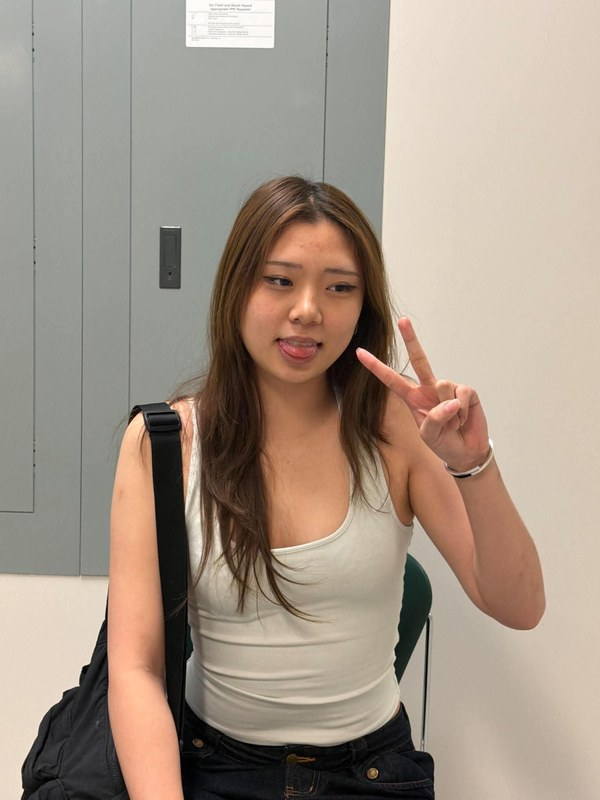
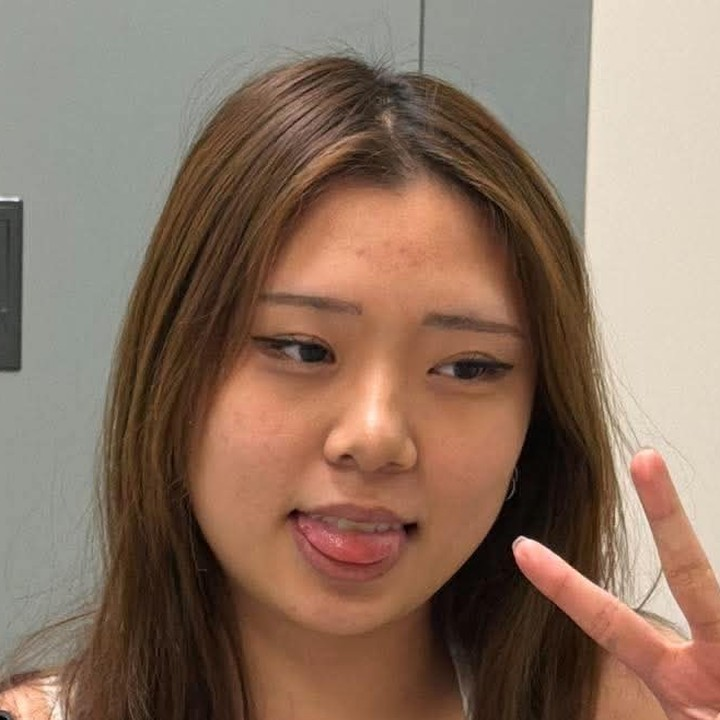
Show face-zoomed circular flashcards for recognition practice.

diff --git a/index.html b/index.html
@@ -194,8 +194,8 @@
       width: 100%;
       aspect-ratio: 1;
       object-fit: cover;
-      object-position: center top;
-      border-radius: 12px;
+      object-position: center center;
+      border-radius: 50%;
       display: block;
       background: var(--surface);
     }
@@ -246,11 +246,17 @@
       perspective: 1200px;
       min-height: 0;
       position: relative;
+      display: flex;
+      align-items: center;
+      justify-content: center;
     }
 
     .card {
-      width: 100%;
-      height: 100%;
+      width: min(100%, calc(100vh - 280px));
+      max-width: 100%;
+      aspect-ratio: 1;
+      height: auto;
+      max-height: 100%;
       position: relative;
       transform-style: preserve-3d;
       transition: transform 0.45s cubic-bezier(0.2, 0.8, 0.2, 1);
@@ -264,7 +270,7 @@
       inset: 0;
       backface-visibility: hidden;
       -webkit-backface-visibility: hidden;
-      border-radius: var(--radius);
+      border-radius: 50%;
       overflow: hidden;
       background: var(--surface);
       display: flex;
@@ -274,36 +280,42 @@
       box-shadow: 0 12px 40px rgba(0, 0, 0, 0.35);
     }
 
+    .face.front {
+      border: 3px solid var(--surface-2);
+    }
+
     .face.back {
       transform: rotateY(180deg);
       background: linear-gradient(160deg, #1e2a38 0%, #15202b 100%);
       padding: 24px;
       text-align: center;
+      border: 3px solid var(--accent-dim);
     }
 
     .face img {
       width: 100%;
       height: 100%;
       object-fit: cover;
-      object-position: center top;
+      object-position: center center;
       display: block;
     }
 
     .hint {
       position: absolute;
-      bottom: 14px;
+      bottom: 12%;
       left: 50%;
       transform: translateX(-50%);
       background: rgba(15, 20, 25, 0.72);
       backdrop-filter: blur(8px);
       color: var(--text);
-      font-size: 0.8rem;
+      font-size: 0.75rem;
       font-weight: 500;
-      padding: 8px 14px;
+      padding: 7px 12px;
       border-radius: 999px;
       pointer-events: none;
       opacity: 0.95;
       transition: opacity 0.2s;
+      white-space: nowrap;
     }
 
     .card.flipped .hint { opacity: 0; }
@@ -498,8 +510,8 @@
       { name: "Katherine Li", file: "katherine-li.jpg", dept: "Events" },
       { name: "Justin Xie", file: "justin-xie.jpg", dept: "Events" },
       { name: "Fred Fang", file: "fred-fang.jpg", dept: "Events" },
-      { name: "Emily Kam", file: "emily-kam.png", dept: "Events" },
-      { name: "Casper Chen", file: "casper-chen.png", dept: "Graphics" },
+      { name: "Emily Kam", file: "emily-kam.jpg", dept: "Events" },
+      { name: "Casper Chen", file: "casper-chen.jpg", dept: "Graphics" },
       { name: "Ethan Wen-Je Lee", file: "ethan-wen-je-lee.jpg", dept: "Graphics" },
       { name: "Xavier Zou", file: "xavier-zou.jpg", dept: "Graphics" },
       { name: "Christine Liang", file: "christine-liang.jpg", dept: "Graphics" },
@@ -509,7 +521,7 @@
       { name: "Megan Chui", file: "megan-chui.jpg", dept: "Marketing" },
       { name: "Andy Chen", file: "andy-chen.jpg", dept: "Marketing" },
       { name: "Clare Zhang", file: "clare-zhang.jpg", dept: "Member Relations" },
-      { name: "Nathan Hu", file: "nathan-hu.png", dept: "Member Relations" },
+      { name: "Nathan Hu", file: "nathan-hu.jpg", dept: "Member Relations" },
       { name: "Aubrey Yu", file: "aubrey-yu.jpg", dept: "Member Relations" },
       { name: "Matthew Qin", file: "matthew-qin.jpg", dept: "Member Relations" },
       { name: "Chloe Cheng", file: "chloe-cheng.jpg", dept: "Member Relations" },
